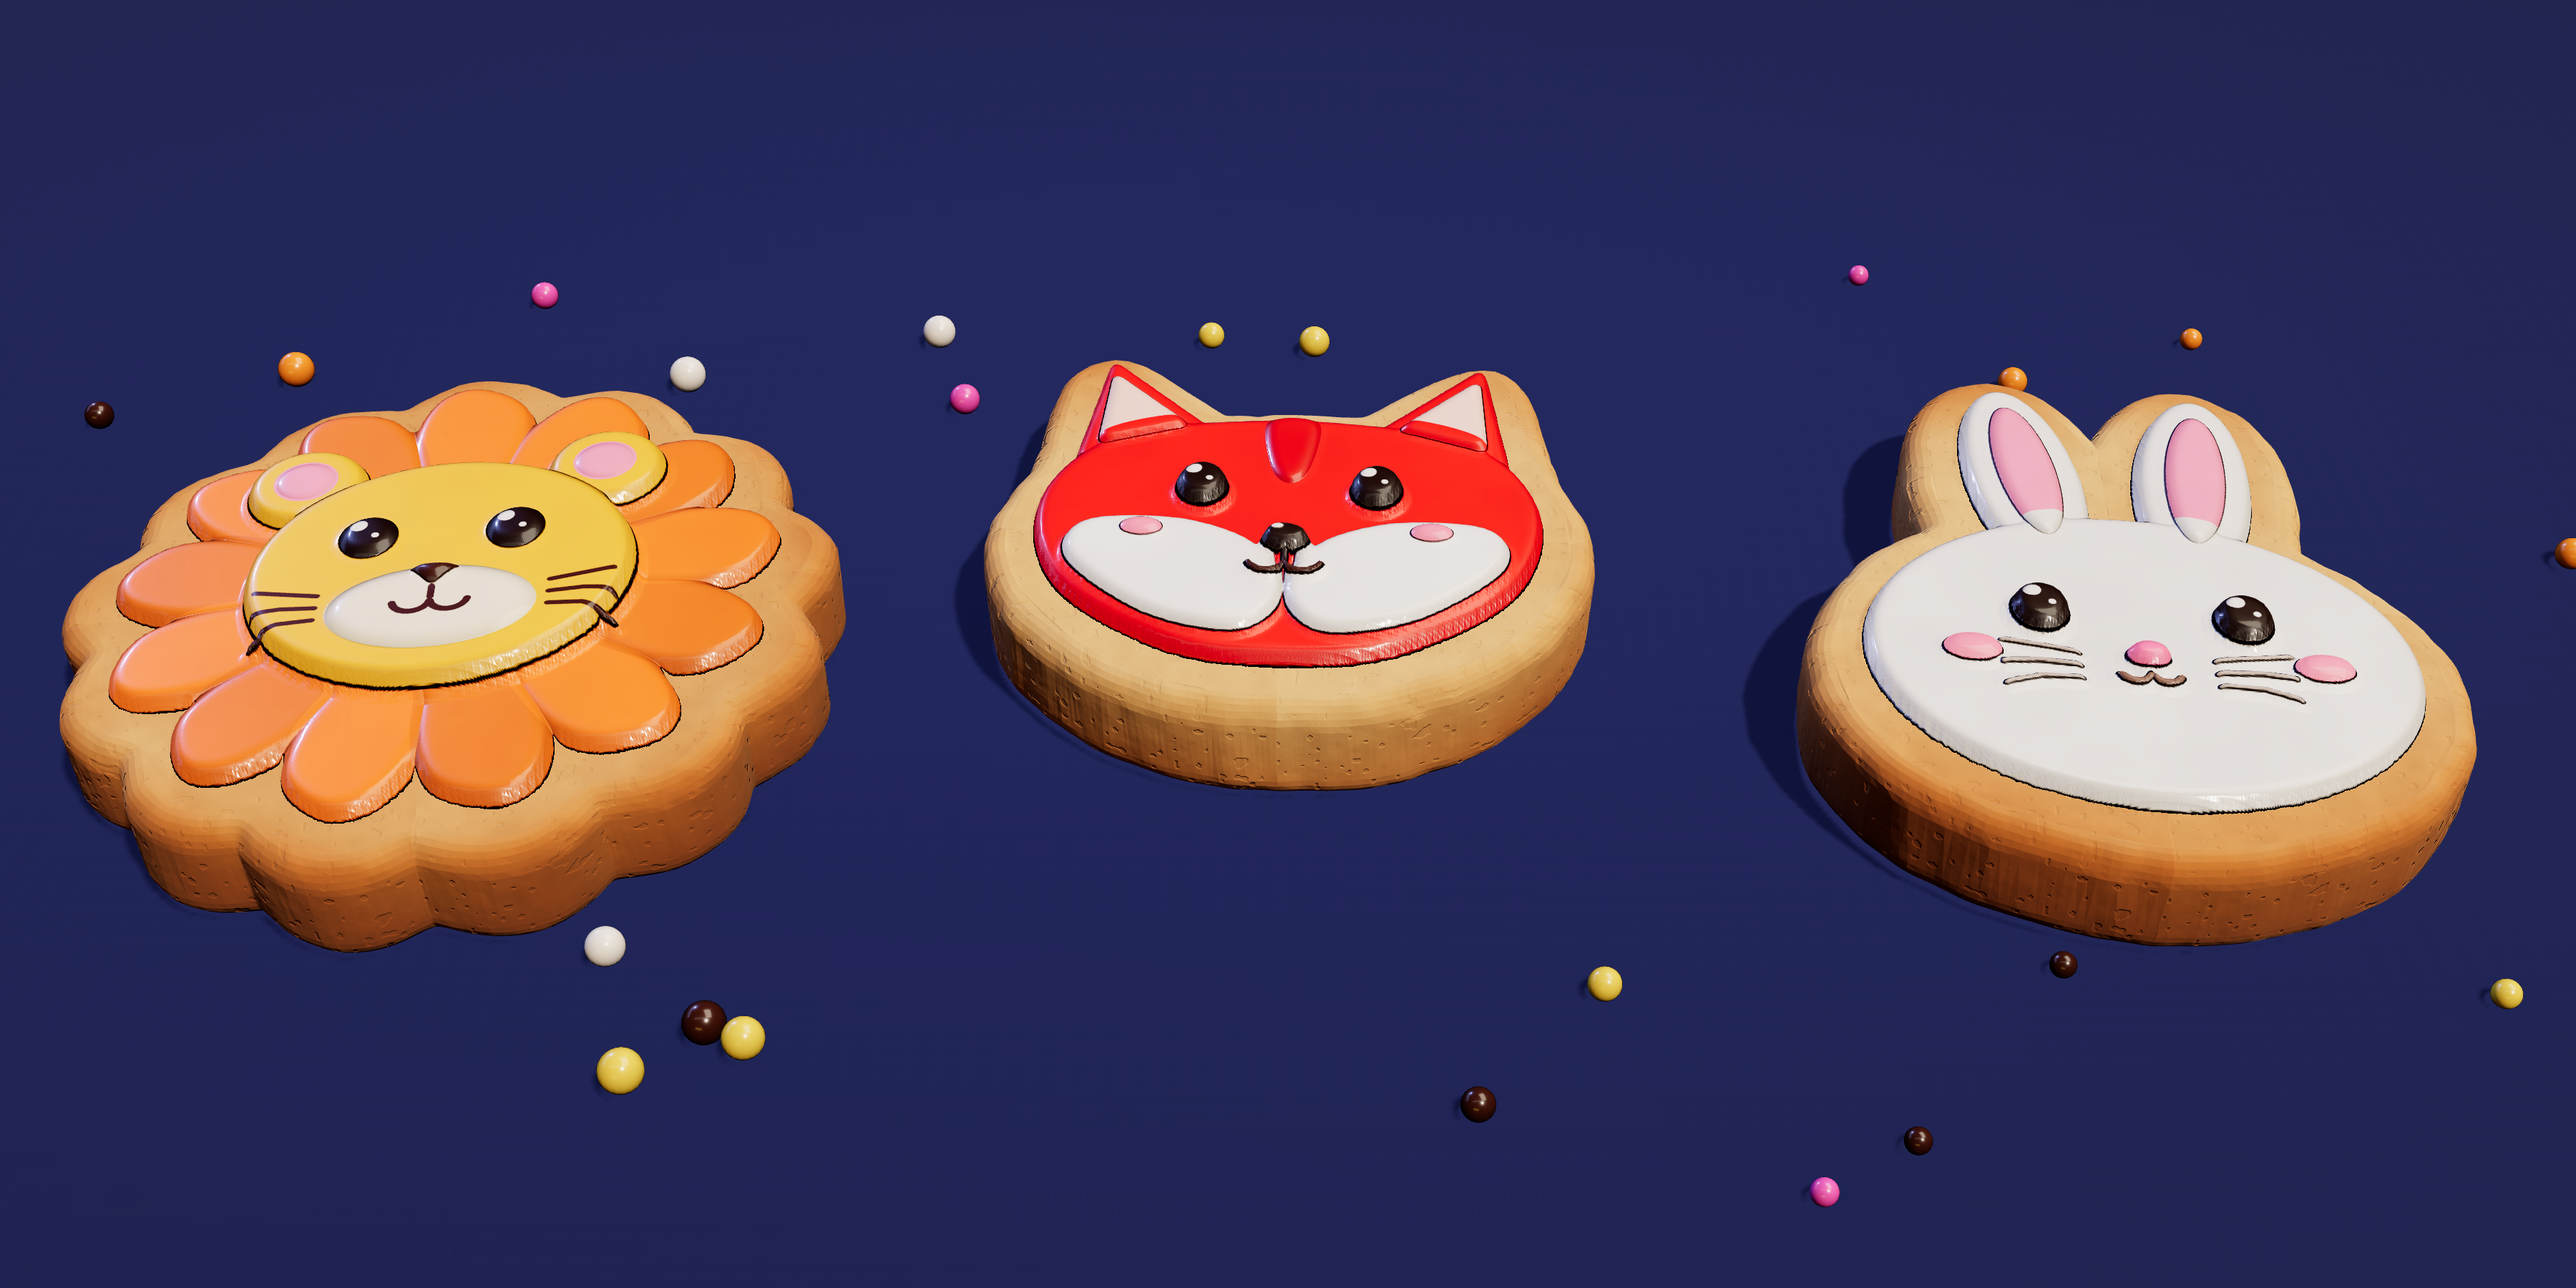
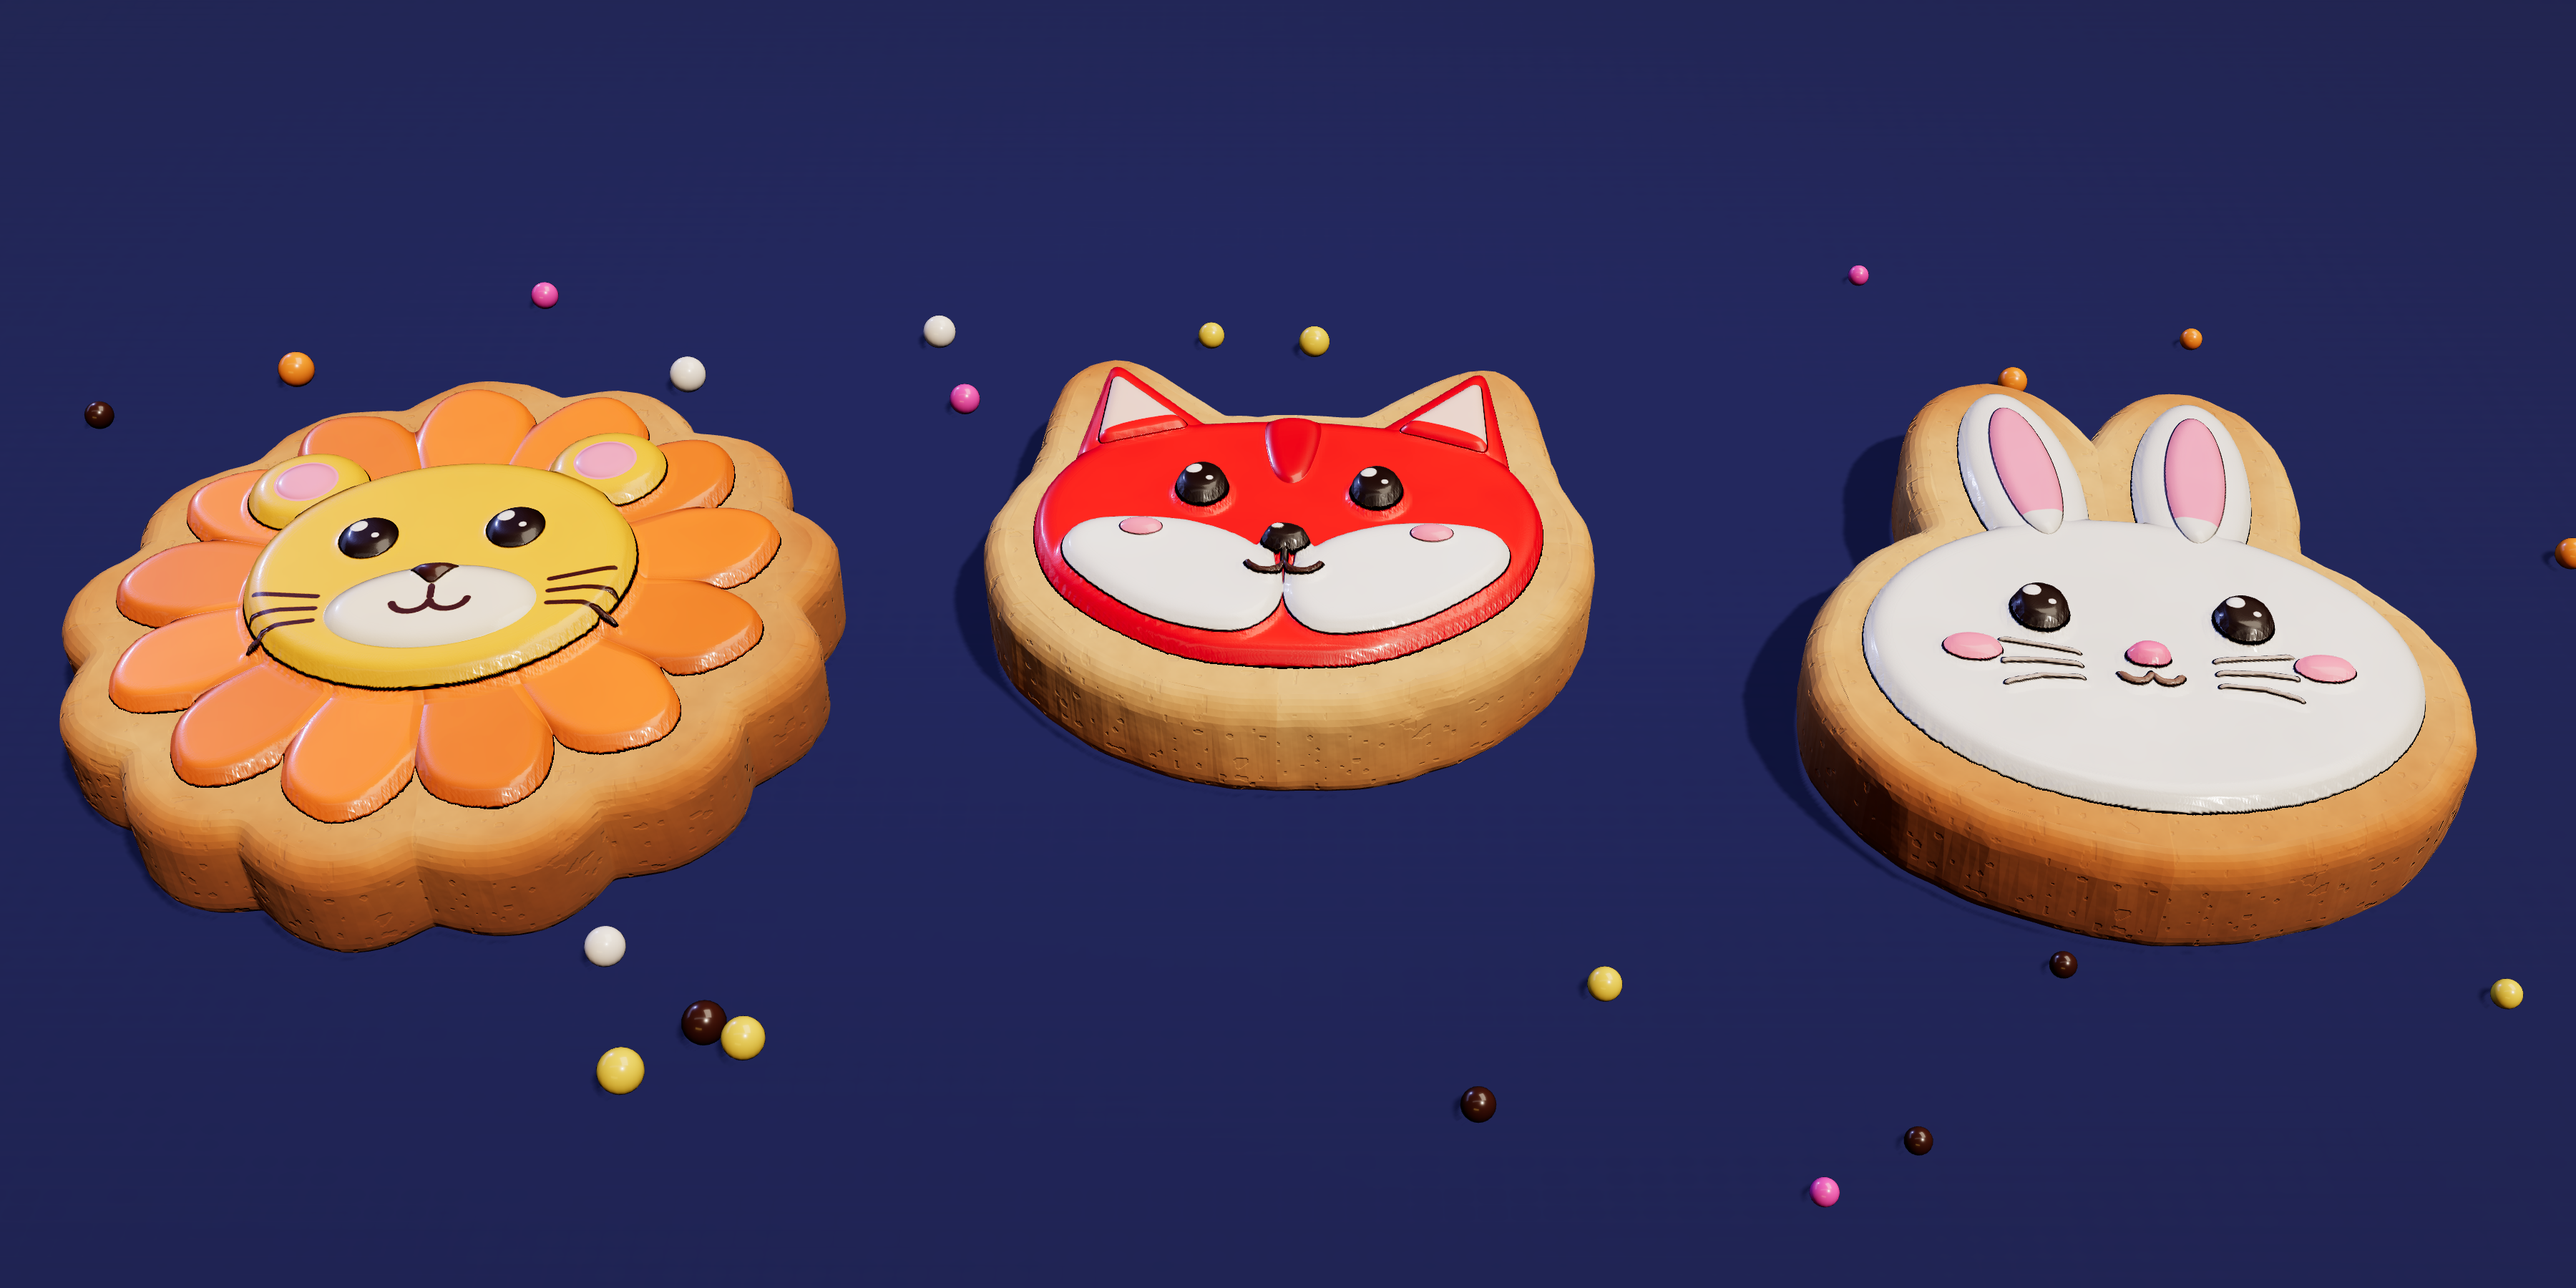
Keks-Studie Set D: Brett-Render

diff --git a/design-concepts/cookies/render.html b/design-concepts/cookies/render.html
@@ -63,13 +63,13 @@ if (VIEW === 'board') {
   const items = [];
   if (VIEW === 'closeups') {
     // hero shots: three cookies close up, lower camera, a few sugar pearls on the table
-    const keys = (q.get('keys') || '4,2,9').split(',').map(Number), xs = [-2.35, 0, 2.35];
-    keys.forEach((k, i) => { const ck = buildCookie(SET, k, { size: 1.05 }); ck.position.set(xs[i], 0, i === 1 ? -.15 : .12); ck.rotation.y = [.12, -.04, -.1][i]; scene.add(ck); });
+    const keys = (q.get('keys') || '4,2,9').split(',').map(Number), xs = [-2.5, 0, 2.5];
+    keys.forEach((k, i) => { const ck = buildCookie(SET, k, { size: 1.18 }); ck.position.set(xs[i], 0, i === 1 ? -.15 : .12); ck.rotation.y = [.12, -.04, -.1][i]; scene.add(ck); });
     const pearl = new THREE.SphereGeometry(1, 20, 14), pc = ['#ff8a1c', '#ffd23f', '#4a2416', '#fff4e6', '#f45bb8'];
     let sd = 11; const rn = () => (sd = (sd * 16807) % 2147483647) / 2147483647;
     for (let i = 0; i < 34; i++) { const m = new THREE.Mesh(pearl, new THREE.MeshPhysicalMaterial({ color: pc[i % pc.length], roughness: .25, clearcoat: 1, clearcoatRoughness: .05 })); const s = .035 + rn() * .025;
       let x, z; do { x = (rn() * 2 - 1) * 4.6; z = (rn() * 2 - 1) * 2; } while (xs.some(cx => Math.hypot(x - cx, z) < 1.25)); m.scale.setScalar(s); m.position.set(x, s, z); m.castShadow = true; scene.add(m); }
-    cam.fov = 24; cam.position.set(0, 5.4, 6.1); cam.lookAt(0, .1, .05);
+    cam.fov = 24; cam.position.set(0, 5.0, 5.9); cam.lookAt(0, .15, .1); key.color.set('#ffe6c4'); key.intensity = 3;
   } else if (VIEW === 'single') {
     const key = +(q.get('key') || 1); const ck = buildCookie(SET, key, { state: q.get('state') || 'normal', size: 1 }); scene.add(ck); items.push([ck, PALETTE.find(p => p.key === key)]);
     cam.position.set(0, 4.2, 3.6); cam.lookAt(0, .15, 0);
